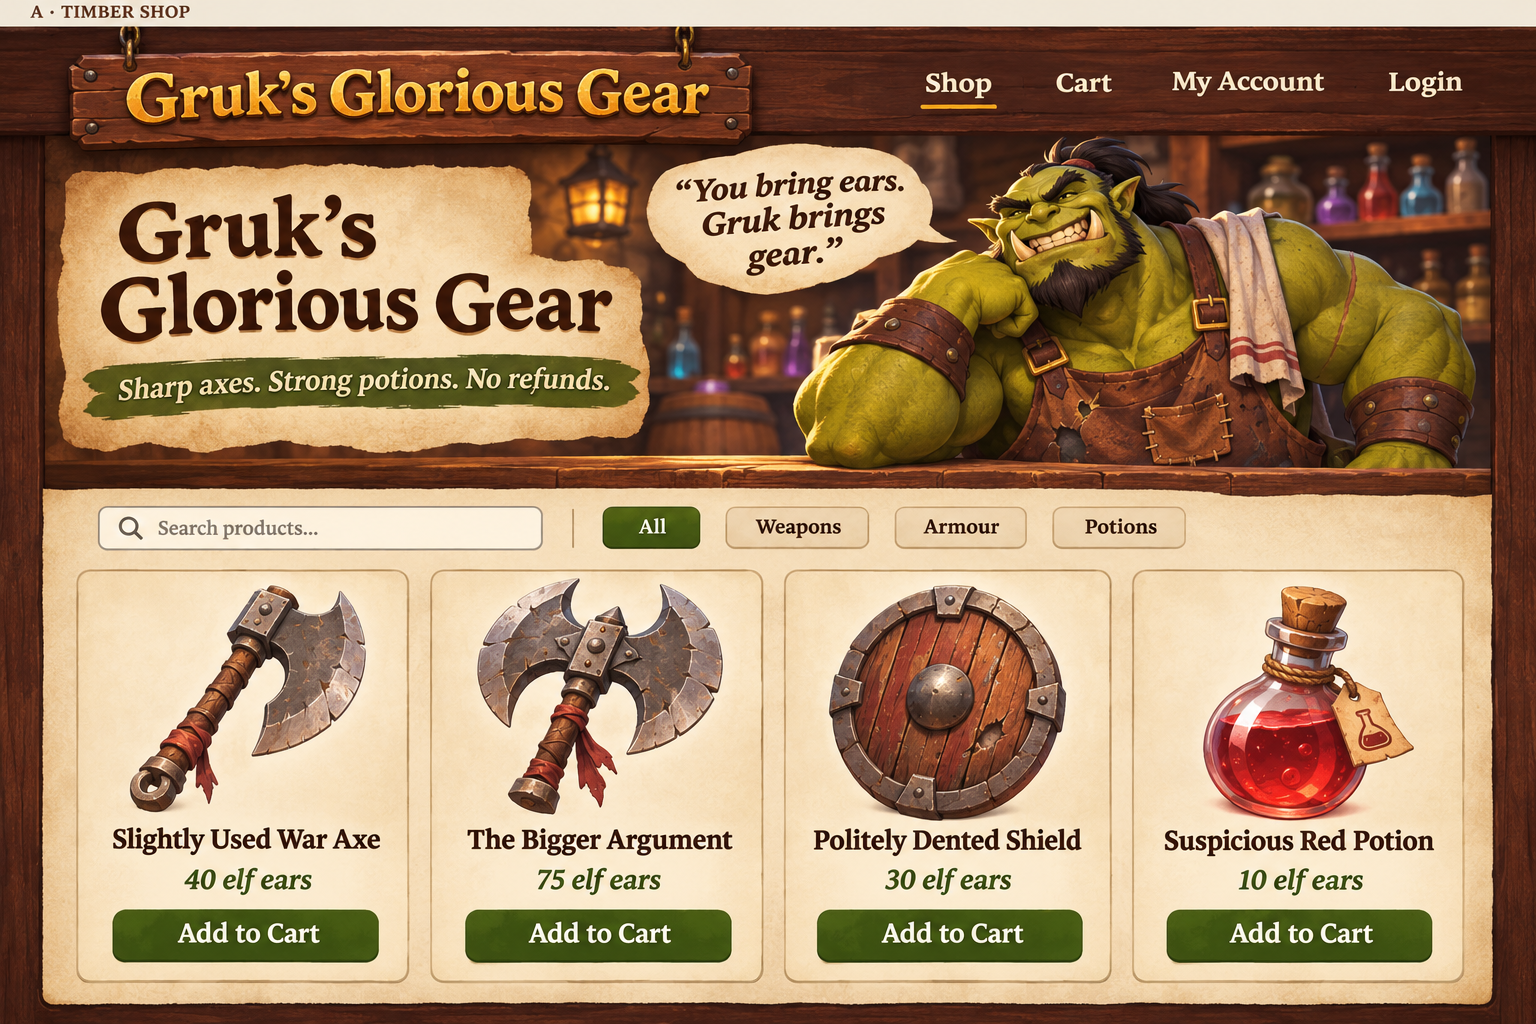
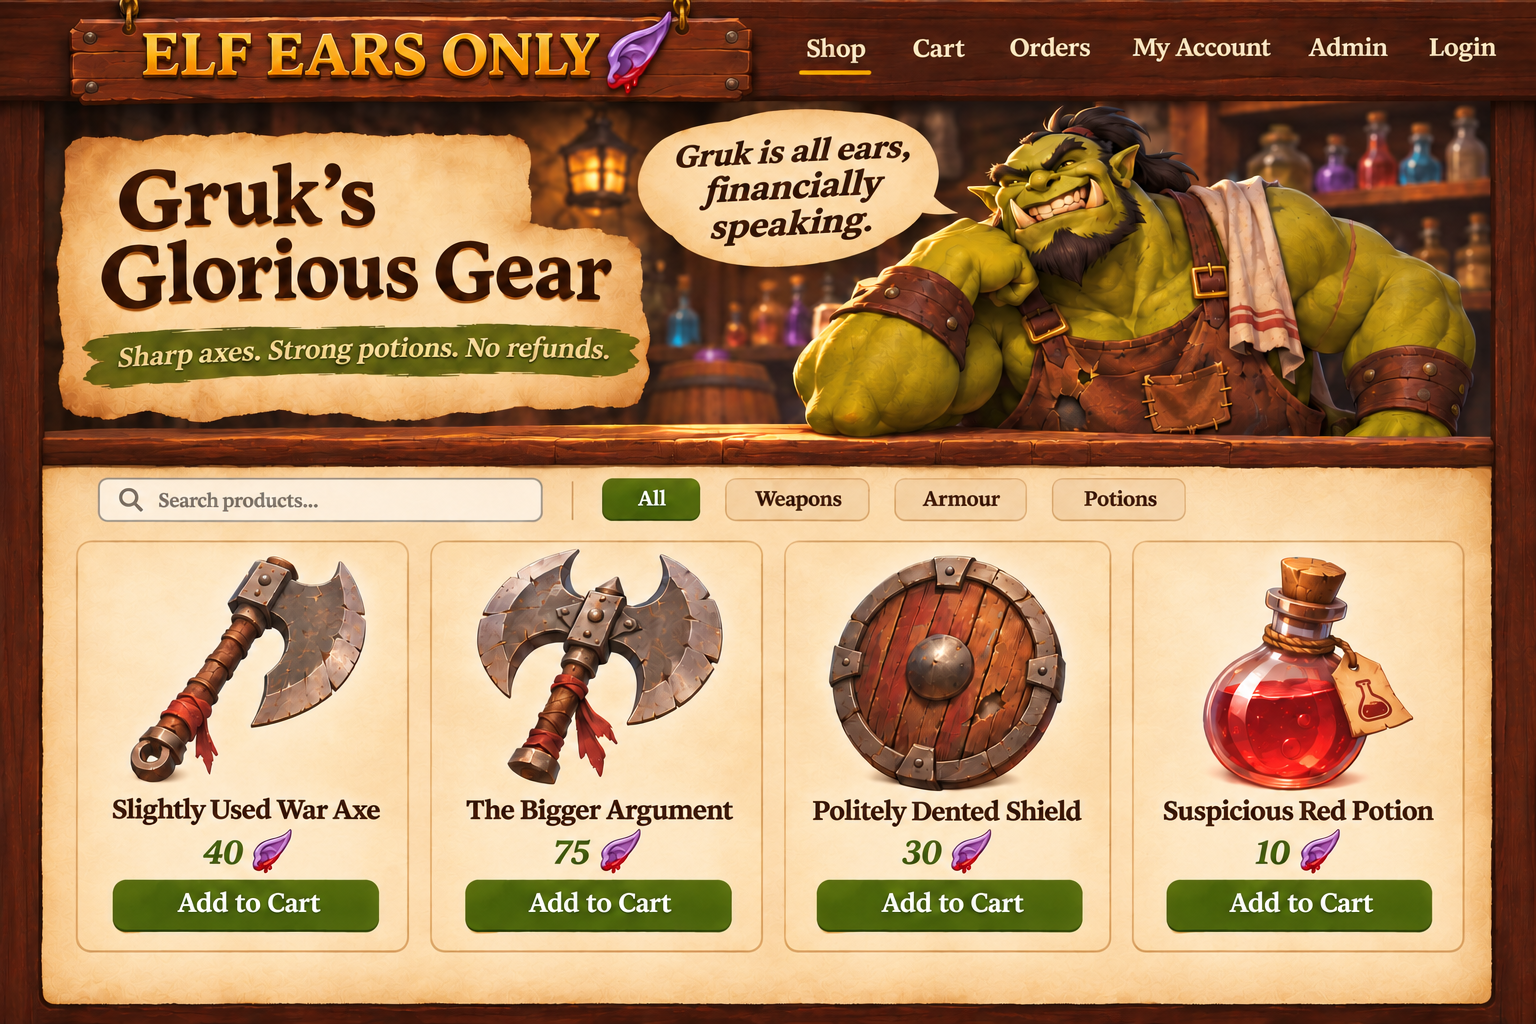
Add selected Gruk artwork and page mockups

diff --git a/docs/PROVENANCE.md b/docs/PROVENANCE.md
@@ -6,8 +6,8 @@
 | Keenan | lab7-design-decisions.md | `docs/lab7-design-decisions.md` | AI-GENERATED | Codex drafted the document from agreed design decisions. | Keenan reviewed and approved the content. |
 | Keenan / Mathijs | lab8-design-decisions.md | `docs/lab8-design-decisions.md` | AI-GENERATED / AI-REVISED | Codex drafted the Lab 8 plan from Keenan and Mathijs's theme, currency, scope preferences, the Lab 8 requirements, and the existing Lab 7 decisions. | Keenan and Mathijs checked the plan against the lab requirements and existing planning documents. |
 | Keenan / Mathijs | lab8-shop-content.md | `docs/lab8-shop-content.md` | AI-GENERATED / AI-REVISED | Codex drafted Gruk's personality, shop copy, quotes, proposed products and prices, and image ideas from Keenan's cartoon orc shop concept, elf-ear currency choice, and other specifications. | Keenan and Mathijs confirmed the shop name, currency and general direction. |
-| Keenan | lab8-shop-mockup.png | `images/mockups/lab8-shop-mockup.png` | AI-GENERATED | OpenAI's built-in image generation tool created the Timber Shop mockup from Keenan's Warcraft-inspired cartoon orc shop direction during the Lab 8 planning conversation. The mockup prompt is not retained in the repository. | Keenan selected mockup A as the visual direction. It is a design reference, not an implemented page. |
-| Keenan | Website image assets | `static/images/` including subfolders | AI-GENERATED | OpenAI's built-in image generation tool creates the website artwork using selected mockup A as the visual reference. Currently includes Gruk, the wood background and the parchment background. Individual prompts and filenames are recorded in `docs/lab8-asset-prompts.json`. | Codex visually inspected the current assets, checked PNG dimensions and verified Gruk's transparency. Keenan and Mathijs verified placement, texture repetition and readability. |
+| Keenan | Website mockups | `images/mockups/` | AI-GENERATED | OpenAI's built-in image generation tool created and revised mockups from the agreed cartoon orc shop theme. | Keenan reviewed and selected the designs as references for implementation. |
+| Keenan | Website image assets | `static/images/` including subfolders | AI-GENERATED | OpenAI's built-in image generation tool creates and revises website artwork from the agreed cartoon fantasy theme and selected visual references. Asset filenames and prompts are recorded in `docs/lab8-asset-prompts.json`. | Artwork reviewed for visual fit, readability at intended sizes and transparency where applicable. Final placement and texture repetition are checked during page styling. |
 | Keenan | test_lab7.py and shared test support | `tests/test_lab7.py`, `tests/support.py` | AI-GENERATED | Codex reorganized the order tests into Lab 7 checks for search, cart quantities and totals, order history, saved orders, validation and rollback. Shared helpers create and clean up test records and simulate database failures. | All 10 Lab 7 tests passed against local SQL Server. A before-and-after database comparison confirmed that the combined test run preserved existing records. |
 | Keenan | test_lab8.py | `tests/test_lab8.py` | AI-GENERATED | Codex created tests for product details and both image methods, login/logout, customer isolation, daily sales and shipment transactions. Shipment tests use test-created products and orders instead of consuming sample stock. | All 12 Lab 8 tests passed, including insufficient-stock, mid-update and commit failures. After the combined run, product, customer, order, order-item, inventory and shipment rows matched their starting state. |
 | Keenan | ship.py | `routes/ship.py` | AI-ASSISTED | Codex cleaned up the code and fixed errors. | Keenan checked the logic and ensured successful shipments update inventory and failed shipments roll back all changes. |

diff --git a/AGENTS.md b/AGENTS.md
@@ -9,5 +9,6 @@
 ## Image Asset Provenance
 
 - The `static/images/` entry in `docs/PROVENANCE.md` covers AI-generated artwork in that folder and its subfolders.
-- Add new asset prompts and filenames to `docs/lab8-asset-prompts.json` and update the provenance entry as assets are added and checked.
+- Keep the website image provenance entry as a general statement about the AI tool, purpose and validation. Do not list every asset or expand the entry whenever an image is added.
+- Record individual asset filenames, prompts and any asset-specific validation notes in `docs/lab8-asset-prompts.json`. Update the general provenance entry only when the source, tool or overall process changes.
 - Record any externally sourced or manually created images separately rather than including them under the AI-generated credit.
